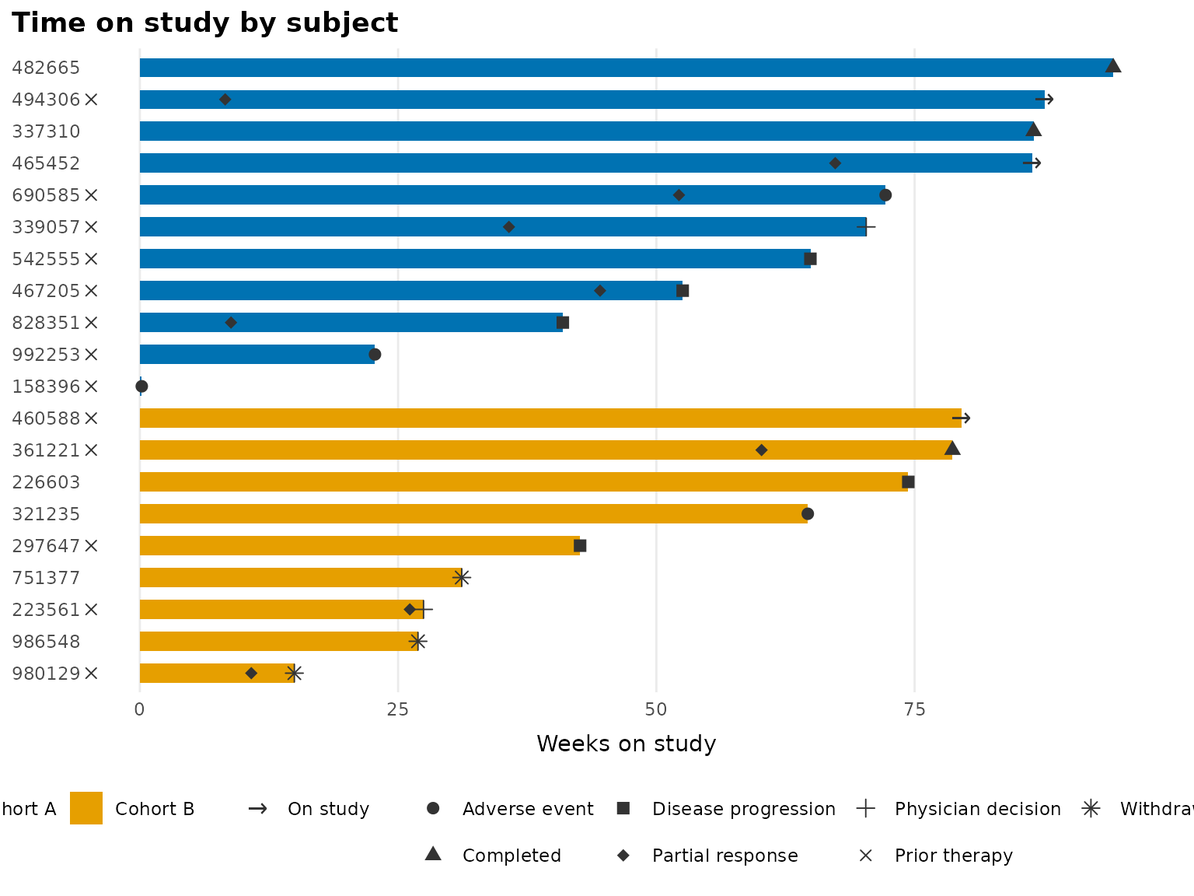
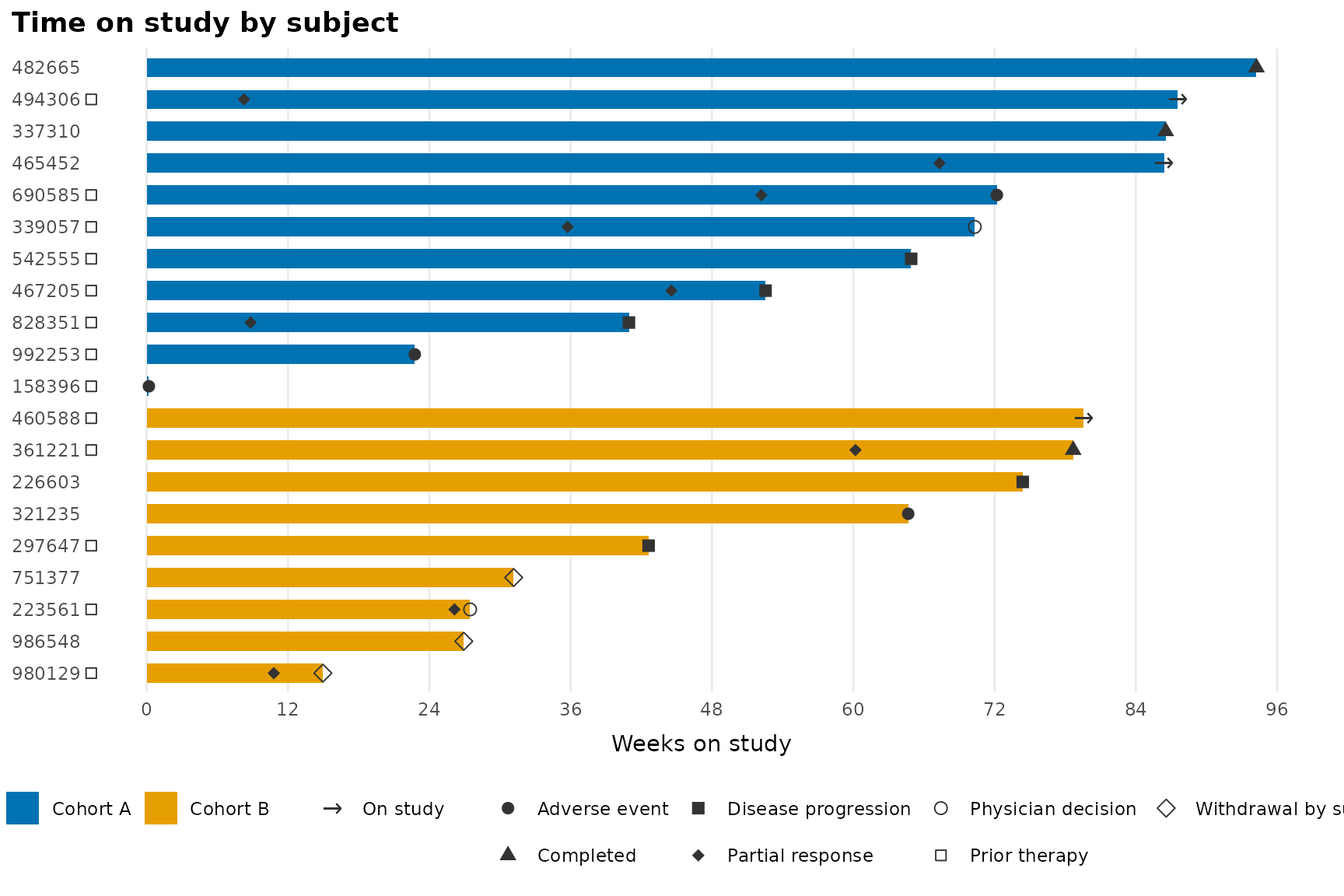
Deploying to gh-pages from @ tgerke/ggswimlane@ab0d44b643e46b7d5c5ca923e06b29bbf7d964c7 🚀

diff --git a/articles/gallery.html b/articles/gallery.html
@@ -59,7 +59,7 @@
       <h1>Swimlane gallery</h1>
             
       
-      <small class="dont-index">Source: <a href="https://github.com/tgerke/ggswimlane/blob/v0.1.0/vignettes/gallery.Rmd" class="external-link"><code>vignettes/gallery.Rmd</code></a></small>
+      <small class="dont-index">Source: <a href="https://github.com/tgerke/ggswimlane/blob/main/vignettes/gallery.Rmd" class="external-link"><code>vignettes/gallery.Rmd</code></a></small>
       <div class="d-none name"><code>gallery.Rmd</code></div>
     </div>
 
@@ -103,12 +103,15 @@ simulated disposition table for 20 trial participants.</p>
 <p><code><a href="../reference/geom_swimlane.html">geom_swimlane()</a></code> draws one bar per subject.
 <code><a href="../reference/order_swimlane.html">order_swimlane()</a></code> relevels the subject column first so lanes
 run shortest to longest, and <code><a href="../reference/theme_swimlane.html">theme_swimlane()</a></code> supplies the
-finished look:</p>
+finished look. Time axes read best with breaks at protocol-meaningful
+intervals, so every example here sets 12-week breaks rather than
+accepting the ggplot2 defaults:</p>
 <div class="sourceCode" id="cb3"><pre class="downlit sourceCode r">
 <code class="sourceCode R"><span><span class="va">patient_disposition</span> <span class="op">|&gt;</span></span>
 <span>  <span class="fu"><a href="../reference/order_swimlane.html">order_swimlane</a></span><span class="op">(</span><span class="va">subject</span>, <span class="va">weeks_on_study</span><span class="op">)</span> <span class="op">|&gt;</span></span>
 <span>  <span class="fu"><a href="https://ggplot2.tidyverse.org/reference/ggplot.html" class="external-link">ggplot</a></span><span class="op">(</span><span class="op">)</span> <span class="op">+</span></span>
 <span>  <span class="fu"><a href="../reference/geom_swimlane.html">geom_swimlane</a></span><span class="op">(</span><span class="va">subject</span>, <span class="va">weeks_on_study</span><span class="op">)</span> <span class="op">+</span></span>
+<span>  <span class="fu"><a href="https://ggplot2.tidyverse.org/reference/scale_continuous.html" class="external-link">scale_x_continuous</a></span><span class="op">(</span>breaks <span class="op">=</span> <span class="fu">scales</span><span class="fu">::</span><span class="fu"><a href="https://scales.r-lib.org/reference/breaks_width.html" class="external-link">breaks_width</a></span><span class="op">(</span><span class="fl">12</span><span class="op">)</span><span class="op">)</span> <span class="op">+</span></span>
 <span>  <span class="fu"><a href="https://ggplot2.tidyverse.org/reference/labs.html" class="external-link">labs</a></span><span class="op">(</span>x <span class="op">=</span> <span class="st">"Weeks on study"</span><span class="op">)</span> <span class="op">+</span></span>
 <span>  <span class="fu"><a href="../reference/theme_swimlane.html">theme_swimlane</a></span><span class="op">(</span><span class="op">)</span></span></code></pre></div>
 <p><img src="gallery_files/figure-html/basic-1.png" class="r-plt" alt="Swimlane plot of 20 subjects with blue bars ordered shortest to longest from the bottom" width="100%"></p>
@@ -119,6 +122,7 @@ to <code><a href="../reference/order_swimlane.html">order_swimlane()</a></code> 
 <span>  <span class="fu"><a href="../reference/order_swimlane.html">order_swimlane</a></span><span class="op">(</span><span class="va">subject</span>, <span class="va">weeks_on_study</span>, <span class="va">cohort</span><span class="op">)</span> <span class="op">|&gt;</span></span>
 <span>  <span class="fu"><a href="https://ggplot2.tidyverse.org/reference/ggplot.html" class="external-link">ggplot</a></span><span class="op">(</span><span class="op">)</span> <span class="op">+</span></span>
 <span>  <span class="fu"><a href="../reference/geom_swimlane.html">geom_swimlane</a></span><span class="op">(</span><span class="va">subject</span>, <span class="va">weeks_on_study</span>, <span class="va">cohort</span><span class="op">)</span> <span class="op">+</span></span>
+<span>  <span class="fu"><a href="https://ggplot2.tidyverse.org/reference/scale_continuous.html" class="external-link">scale_x_continuous</a></span><span class="op">(</span>breaks <span class="op">=</span> <span class="fu">scales</span><span class="fu">::</span><span class="fu"><a href="https://scales.r-lib.org/reference/breaks_width.html" class="external-link">breaks_width</a></span><span class="op">(</span><span class="fl">12</span><span class="op">)</span><span class="op">)</span> <span class="op">+</span></span>
 <span>  <span class="fu"><a href="https://ggplot2.tidyverse.org/reference/labs.html" class="external-link">labs</a></span><span class="op">(</span>x <span class="op">=</span> <span class="st">"Weeks on study"</span><span class="op">)</span> <span class="op">+</span></span>
 <span>  <span class="fu"><a href="../reference/theme_swimlane.html">theme_swimlane</a></span><span class="op">(</span><span class="op">)</span></span></code></pre></div>
 <p><img src="gallery_files/figure-html/cohorts-1.png" class="r-plt" alt="Swimlane plot with lanes grouped and colored by cohort, blue for Cohort A and orange for Cohort B" width="100%"></p>
@@ -154,6 +158,7 @@ the left margin.</li>
 <span>    marker_label <span class="op">=</span> <span class="st">"Partial response"</span></span>
 <span>  <span class="op">)</span> <span class="op">+</span></span>
 <span>  <span class="fu"><a href="../reference/geom_swimlane_rug.html">geom_swimlane_rug</a></span><span class="op">(</span><span class="va">subject</span>, <span class="va">prior_drug</span><span class="op">)</span> <span class="op">+</span></span>
+<span>  <span class="fu"><a href="https://ggplot2.tidyverse.org/reference/scale_continuous.html" class="external-link">scale_x_continuous</a></span><span class="op">(</span>breaks <span class="op">=</span> <span class="fu">scales</span><span class="fu">::</span><span class="fu"><a href="https://scales.r-lib.org/reference/breaks_width.html" class="external-link">breaks_width</a></span><span class="op">(</span><span class="fl">12</span><span class="op">)</span><span class="op">)</span> <span class="op">+</span></span>
 <span>  <span class="fu"><a href="https://ggplot2.tidyverse.org/reference/labs.html" class="external-link">labs</a></span><span class="op">(</span>title <span class="op">=</span> <span class="st">"Time on study by subject"</span>, x <span class="op">=</span> <span class="st">"Weeks on study"</span><span class="op">)</span> <span class="op">+</span></span>
 <span>  <span class="fu"><a href="../reference/theme_swimlane.html">theme_swimlane</a></span><span class="op">(</span><span class="op">)</span></span></code></pre></div>
 <p><img src="gallery_files/figure-html/annotated-1.png" class="r-plt" alt="Swimlane plot colored by cohort with shaped points marking each subject's end-of-study status, partial responses, prior therapy flags in the left margin, and arrows for subjects still on study" width="100%"></p>
@@ -164,9 +169,24 @@ the left margin.</li>
 <p>With one row per subject and phase, bar segments stack in
 factor-level order. Here each lane splits into treatment and follow-up
 phases; note that <code><a href="../reference/order_swimlane.html">order_swimlane()</a></code> runs before pivoting so
-lanes stay ordered by total duration:</p>
+lanes stay ordered by total duration.</p>
+<p>Shapes assign in factor-level order, so a plot with different status
+levels would reshuffle them: this plot has no partial responses, and
+“Physician decision” would silently inherit the diamond that meant
+“Partial response” above. When a document has several swimlanes, pin
+each status to its shape with a named <code>values</code> vector:</p>
 <div class="sourceCode" id="cb6"><pre class="downlit sourceCode r">
-<code class="sourceCode R"><span><span class="va">patient_disposition</span> <span class="op">|&gt;</span></span>
+<code class="sourceCode R"><span><span class="va">status_shapes</span> <span class="op">&lt;-</span> <span class="fu"><a href="https://rdrr.io/r/base/c.html" class="external-link">c</a></span><span class="op">(</span></span>
+<span>  <span class="st">"Adverse event"</span> <span class="op">=</span> <span class="fl">16</span>,</span>
+<span>  <span class="st">"Completed"</span> <span class="op">=</span> <span class="fl">17</span>,</span>
+<span>  <span class="st">"Disease progression"</span> <span class="op">=</span> <span class="fl">15</span>,</span>
+<span>  <span class="st">"Partial response"</span> <span class="op">=</span> <span class="fl">18</span>,</span>
+<span>  <span class="st">"Physician decision"</span> <span class="op">=</span> <span class="fl">1</span>,</span>
+<span>  <span class="st">"Prior therapy"</span> <span class="op">=</span> <span class="fl">0</span>,</span>
+<span>  <span class="st">"Withdrawal by subject"</span> <span class="op">=</span> <span class="fl">5</span></span>
+<span><span class="op">)</span></span>
+<span></span>
+<span><span class="va">patient_disposition</span> <span class="op">|&gt;</span></span>
 <span>  <span class="fu"><a href="../reference/order_swimlane.html">order_swimlane</a></span><span class="op">(</span><span class="va">subject</span>, <span class="va">weeks_on_study</span>, <span class="va">cohort</span><span class="op">)</span> <span class="op">|&gt;</span></span>
 <span>  <span class="fu"><a href="https://dplyr.tidyverse.org/reference/mutate.html" class="external-link">mutate</a></span><span class="op">(</span></span>
 <span>    Treatment <span class="op">=</span> <span class="va">weeks_on_treatment</span>,</span>
@@ -180,25 +200,34 @@ lanes stay ordered by total duration:</p>
 <span>  <span class="fu"><a href="https://ggplot2.tidyverse.org/reference/ggplot.html" class="external-link">ggplot</a></span><span class="op">(</span><span class="op">)</span> <span class="op">+</span></span>
 <span>  <span class="fu"><a href="../reference/geom_swimlane.html">geom_swimlane</a></span><span class="op">(</span><span class="va">subject</span>, <span class="va">weeks</span>, <span class="va">phase</span><span class="op">)</span> <span class="op">+</span></span>
 <span>  <span class="fu"><a href="../reference/geom_swimlane_status.html">geom_swimlane_status</a></span><span class="op">(</span><span class="va">subject</span>, <span class="va">weeks_on_study</span>, <span class="va">reason_off_study</span><span class="op">)</span> <span class="op">+</span></span>
+<span>  <span class="fu"><a href="../reference/scale_fill_swimlane.html">scale_shape_swimlane</a></span><span class="op">(</span></span>
+<span>    values <span class="op">=</span> <span class="va">status_shapes</span>,</span>
+<span>    guide <span class="op">=</span> <span class="fu"><a href="https://ggplot2.tidyverse.org/reference/guide_legend.html" class="external-link">guide_legend</a></span><span class="op">(</span>order <span class="op">=</span> <span class="fl">3</span>, nrow <span class="op">=</span> <span class="fl">2</span><span class="op">)</span></span>
+<span>  <span class="op">)</span> <span class="op">+</span></span>
+<span>  <span class="fu"><a href="https://ggplot2.tidyverse.org/reference/scale_continuous.html" class="external-link">scale_x_continuous</a></span><span class="op">(</span>breaks <span class="op">=</span> <span class="fu">scales</span><span class="fu">::</span><span class="fu"><a href="https://scales.r-lib.org/reference/breaks_width.html" class="external-link">breaks_width</a></span><span class="op">(</span><span class="fl">12</span><span class="op">)</span><span class="op">)</span> <span class="op">+</span></span>
 <span>  <span class="fu"><a href="https://ggplot2.tidyverse.org/reference/labs.html" class="external-link">labs</a></span><span class="op">(</span>title <span class="op">=</span> <span class="st">"Treatment and follow-up phases"</span>, x <span class="op">=</span> <span class="st">"Weeks on study"</span><span class="op">)</span> <span class="op">+</span></span>
 <span>  <span class="fu"><a href="../reference/theme_swimlane.html">theme_swimlane</a></span><span class="op">(</span><span class="op">)</span></span></code></pre></div>
-<p><img src="gallery_files/figure-html/stacked-1.png" class="r-plt" alt="Swimlane plot where each bar is split into a blue treatment segment followed by an orange follow-up segment" width="100%"></p>
+<p><img src="gallery_files/figure-html/stacked-1.png" class="r-plt" alt="Swimlane plot where each bar is split into a blue treatment segment followed by an orange follow-up segment, with the same status shapes as the previous figure" width="100%"></p>
 </div>
 <div class="section level2">
 <h2 id="text-annotations">Text annotations<a class="anchor" aria-label="anchor" href="#text-annotations"></a>
 </h2>
 <p>Prefer text over symbols? <code><a href="../reference/geom_swimlane_label.html">geom_swimlane_label()</a></code> writes
-each status past the end of its bar. Widen the right margin to make
-room:</p>
+each status past the end of its bar. Subjects with <code>NA</code> are
+skipped, which would leave ongoing subjects indistinguishable from
+missing data, so recode them to a label first. Widen the right margin to
+make room:</p>
 <div class="sourceCode" id="cb7"><pre class="downlit sourceCode r">
 <code class="sourceCode R"><span><span class="va">patient_disposition</span> <span class="op">|&gt;</span></span>
+<span>  <span class="fu"><a href="https://dplyr.tidyverse.org/reference/mutate.html" class="external-link">mutate</a></span><span class="op">(</span>reason_off_study <span class="op">=</span> <span class="fu"><a href="https://dplyr.tidyverse.org/reference/coalesce.html" class="external-link">coalesce</a></span><span class="op">(</span><span class="va">reason_off_study</span>, <span class="st">"On study"</span><span class="op">)</span><span class="op">)</span> <span class="op">|&gt;</span></span>
 <span>  <span class="fu"><a href="../reference/order_swimlane.html">order_swimlane</a></span><span class="op">(</span><span class="va">subject</span>, <span class="va">weeks_on_study</span>, <span class="va">cohort</span><span class="op">)</span> <span class="op">|&gt;</span></span>
 <span>  <span class="fu"><a href="https://ggplot2.tidyverse.org/reference/ggplot.html" class="external-link">ggplot</a></span><span class="op">(</span><span class="op">)</span> <span class="op">+</span></span>
 <span>  <span class="fu"><a href="../reference/geom_swimlane.html">geom_swimlane</a></span><span class="op">(</span><span class="va">subject</span>, <span class="va">weeks_on_study</span>, <span class="va">cohort</span><span class="op">)</span> <span class="op">+</span></span>
 <span>  <span class="fu"><a href="../reference/geom_swimlane_label.html">geom_swimlane_label</a></span><span class="op">(</span><span class="va">subject</span>, <span class="va">weeks_on_study</span>, <span class="va">reason_off_study</span><span class="op">)</span> <span class="op">+</span></span>
+<span>  <span class="fu"><a href="https://ggplot2.tidyverse.org/reference/scale_continuous.html" class="external-link">scale_x_continuous</a></span><span class="op">(</span>breaks <span class="op">=</span> <span class="fu">scales</span><span class="fu">::</span><span class="fu"><a href="https://scales.r-lib.org/reference/breaks_width.html" class="external-link">breaks_width</a></span><span class="op">(</span><span class="fl">12</span><span class="op">)</span><span class="op">)</span> <span class="op">+</span></span>
 <span>  <span class="fu"><a href="https://ggplot2.tidyverse.org/reference/labs.html" class="external-link">labs</a></span><span class="op">(</span>x <span class="op">=</span> <span class="st">"Weeks on study"</span><span class="op">)</span> <span class="op">+</span></span>
 <span>  <span class="fu"><a href="../reference/theme_swimlane.html">theme_swimlane</a></span><span class="op">(</span>extra_margin_r <span class="op">=</span> <span class="fl">60</span><span class="op">)</span></span></code></pre></div>
-<p><img src="gallery_files/figure-html/labels-1.png" class="r-plt" alt="Swimlane plot with each subject's reason off study written as text just past the end of its bar" width="100%"></p>
+<p><img src="gallery_files/figure-html/labels-1.png" class="r-plt" alt="Swimlane plot with each subject's status, including On study, written as text just past the end of its bar" width="100%"></p>
 </div>
 <div class="section level2">
 <h2 id="customization">Customization<a class="anchor" aria-label="anchor" href="#customization"></a>
@@ -212,6 +241,7 @@ through <code><a href="../reference/theme_swimlane.html">theme_swimlane()</a></c
 <span>  <span class="fu"><a href="https://ggplot2.tidyverse.org/reference/ggplot.html" class="external-link">ggplot</a></span><span class="op">(</span><span class="op">)</span> <span class="op">+</span></span>
 <span>  <span class="fu"><a href="../reference/geom_swimlane.html">geom_swimlane</a></span><span class="op">(</span><span class="va">subject</span>, <span class="va">weeks_on_study</span>, <span class="va">cohort</span><span class="op">)</span> <span class="op">+</span></span>
 <span>  <span class="fu"><a href="https://ggplot2.tidyverse.org/reference/scale_brewer.html" class="external-link">scale_fill_brewer</a></span><span class="op">(</span>palette <span class="op">=</span> <span class="st">"Dark2"</span><span class="op">)</span> <span class="op">+</span></span>
+<span>  <span class="fu"><a href="https://ggplot2.tidyverse.org/reference/scale_continuous.html" class="external-link">scale_x_continuous</a></span><span class="op">(</span>breaks <span class="op">=</span> <span class="fu">scales</span><span class="fu">::</span><span class="fu"><a href="https://scales.r-lib.org/reference/breaks_width.html" class="external-link">breaks_width</a></span><span class="op">(</span><span class="fl">12</span><span class="op">)</span><span class="op">)</span> <span class="op">+</span></span>
 <span>  <span class="fu"><a href="https://ggplot2.tidyverse.org/reference/labs.html" class="external-link">labs</a></span><span class="op">(</span>x <span class="op">=</span> <span class="st">"Weeks on study"</span><span class="op">)</span> <span class="op">+</span></span>
 <span>  <span class="fu"><a href="../reference/theme_swimlane.html">theme_swimlane</a></span><span class="op">(</span></span>
 <span>    base_size <span class="op">=</span> <span class="fl">12</span>,</span>

diff --git a/reference/scale_fill_swimlane.html b/reference/scale_fill_swimlane.html
@@ -1,11 +1,11 @@
 <!DOCTYPE html>
 <!-- Generated by pkgdown: do not edit by hand --><html lang="en"><head><meta http-equiv="Content-Type" content="text/html; charset=UTF-8"><meta charset="utf-8"><meta http-equiv="X-UA-Compatible" content="IE=edge"><meta name="viewport" content="width=device-width, initial-scale=1, shrink-to-fit=no"><title>Discrete scales for swimlane plots — scale_fill_swimlane • ggswimlane</title><script src="../deps/jquery-3.6.0/jquery-3.6.0.min.js"></script><meta name="viewport" content="width=device-width, initial-scale=1, shrink-to-fit=no"><link href="../deps/bootstrap-5.3.8/bootstrap.min.css" rel="stylesheet"><script src="../deps/bootstrap-5.3.8/bootstrap.bundle.min.js"></script><link href="../deps/font-awesome-6.5.2/css/all.min.css" rel="stylesheet"><link href="../deps/font-awesome-6.5.2/css/v4-shims.min.css" rel="stylesheet"><script src="../deps/headroom-0.11.0/headroom.min.js"></script><script src="../deps/headroom-0.11.0/jQuery.headroom.min.js"></script><script src="../deps/bootstrap-toc-1.0.1/bootstrap-toc.min.js"></script><script src="../deps/clipboard.js-2.0.11/clipboard.min.js"></script><script src="../deps/search-1.0.0/autocomplete.jquery.min.js"></script><script src="../deps/search-1.0.0/fuse.min.js"></script><script src="../deps/search-1.0.0/mark.min.js"></script><!-- pkgdown --><script src="../pkgdown.js"></script><meta property="og:title" content="Discrete scales for swimlane plots — scale_fill_swimlane"><meta name="description" content="Color and fill scales built on a reordered Okabe-Ito palette (colorblind-safe, 8 colors), and
-a shape scale of legible solid-first symbols (7 shapes). These are applied
-automatically by geom_swimlane(); use them directly to style additional
-layers, or replace them with any other discrete scale."><meta property="og:description" content="Color and fill scales built on a reordered Okabe-Ito palette (colorblind-safe, 8 colors), and
-a shape scale of legible solid-first symbols (7 shapes). These are applied
-automatically by geom_swimlane(); use them directly to style additional
-layers, or replace them with any other discrete scale."></head><body>
+a shape scale of legible closed symbols (8 shapes, solid first). These are
+applied automatically by geom_swimlane(); use them directly to style
+additional layers, or replace them with any other discrete scale."><meta property="og:description" content="Color and fill scales built on a reordered Okabe-Ito palette (colorblind-safe, 8 colors), and
+a shape scale of legible closed symbols (8 shapes, solid first). These are
+applied automatically by geom_swimlane(); use them directly to style
+additional layers, or replace them with any other discrete scale."></head><body>
     <a href="#main" class="visually-hidden-focusable">Skip to contents</a>
 
 
@@ -39,15 +39,15 @@ layers, or replace them with any other discrete scale."></head><body>
   <main id="main" class="col-md-9"><div class="page-header">
 
       <h1>Discrete scales for swimlane plots</h1>
-      <small class="dont-index">Source: <a href="https://github.com/tgerke/ggswimlane/blob/v0.1.0/R/scales.R" class="external-link"><code>R/scales.R</code></a></small>
+      <small class="dont-index">Source: <a href="https://github.com/tgerke/ggswimlane/blob/main/R/scales.R" class="external-link"><code>R/scales.R</code></a></small>
       <div class="d-none name"><code>scale_fill_swimlane.Rd</code></div>
     </div>
 
     <div class="ref-description section level2">
     <p>Color and fill scales built on a reordered <a href="https://jfly.uni-koeln.de/color/" class="external-link">Okabe-Ito palette</a> (colorblind-safe, 8 colors), and
-a shape scale of legible solid-first symbols (7 shapes). These are applied
-automatically by <code><a href="geom_swimlane.html">geom_swimlane()</a></code>; use them directly to style additional
-layers, or replace them with any other discrete scale.</p>
+a shape scale of legible closed symbols (8 shapes, solid first). These are
+applied automatically by <code><a href="geom_swimlane.html">geom_swimlane()</a></code>; use them directly to style
+additional layers, or replace them with any other discrete scale.</p>
     </div>
 
     <div class="section level2">
@@ -58,7 +58,7 @@ layers, or replace them with any other discrete scale.</p>
 <span></span>
 <span><span class="fu">scale_color_swimlane</span><span class="op">(</span><span class="va">...</span><span class="op">)</span></span>
 <span></span>
-<span><span class="fu">scale_shape_swimlane</span><span class="op">(</span><span class="va">...</span><span class="op">)</span></span></code></pre></div>
+<span><span class="fu">scale_shape_swimlane</span><span class="op">(</span><span class="va">...</span>, values <span class="op">=</span> <span class="cn">NULL</span><span class="op">)</span></span></code></pre></div>
     </div>
 
     <div class="section level2">
@@ -68,10 +68,23 @@ layers, or replace them with any other discrete scale.</p>
 <dl><dt id="arg--">...<a class="anchor" aria-label="anchor" href="#arg--"></a></dt>
 <dd><p>Arguments passed to <code><a href="https://ggplot2.tidyverse.org/reference/discrete_scale.html" class="external-link">ggplot2::discrete_scale()</a></code>.</p></dd>
 
+
+<dt id="arg-values">values<a class="anchor" aria-label="anchor" href="#arg-values"></a></dt>
+<dd><p>Optional vector of shapes for <code>scale_shape_swimlane()</code>,
+named by level to pin statuses to shapes (as in
+<code><a href="https://ggplot2.tidyverse.org/reference/scale_manual.html" class="external-link">ggplot2::scale_shape_manual()</a></code>). Defaults to the built-in palette.</p></dd>
+
 </dl></div>
     <div class="section level2">
     <h2 id="value">Value<a class="anchor" aria-label="anchor" href="#value"></a></h2>
     <p>A ggplot2 scale object.</p>
+    </div>
+    <div class="section level2">
+    <h2 id="details">Details<a class="anchor" aria-label="anchor" href="#details"></a></h2>
+    <p>By default shapes are assigned in factor-level order, so two plots with
+different status levels assign different shapes to the same status. Pass a
+named <code>values</code> vector to <code>scale_shape_swimlane()</code> to pin each status to a
+shape across plots.</p>
     </div>
 
     <div class="section level2">

diff --git a/news/index.html b/news/index.html
@@ -33,7 +33,7 @@
   <main id="main" class="col-md-9"><div class="page-header">
 
       <h1>Changelog</h1>
-      <small>Source: <a href="https://github.com/tgerke/ggswimlane/blob/v0.1.0/NEWS.md" class="external-link"><code>NEWS.md</code></a></small>
+      <small>Source: <a href="https://github.com/tgerke/ggswimlane/blob/main/NEWS.md" class="external-link"><code>NEWS.md</code></a></small>
     </div>
 
     <div class="section level2">
@@ -50,6 +50,9 @@
 <li>
 <code><a href="../reference/geom_swimlane.html">geom_swimlane()</a></code> gains stacked-segment support: pass long data with a <code>fill_var</code> such as treatment phase and segments stack in factor-level order (<a href="https://github.com/tgerke/ggswimlane/issues/4" class="external-link">#4</a>). The new <code>weeks_on_treatment</code> column in <code>patient_disposition</code> and the gallery vignette demonstrate this.</li>
 <li>Plots now look polished without additional scales: <code><a href="../reference/geom_swimlane.html">geom_swimlane()</a></code> applies built-in colorblind-safe fill and shape scales (Okabe-Ito colors; <code><a href="../reference/scale_fill_swimlane.html">scale_fill_swimlane()</a></code>, <code><a href="../reference/scale_fill_swimlane.html">scale_colour_swimlane()</a></code>, <code><a href="../reference/scale_fill_swimlane.html">scale_shape_swimlane()</a></code> are also exported), and <code><a href="../reference/theme_swimlane.html">theme_swimlane()</a></code> was redesigned with a bottom legend default.</li>
+<li>The default shape palette uses closed symbols only (solid first, then open outlines). The line-only glyphs (<code>+</code>, <code>x</code>, <code>*</code>) are gone: drawn at the end of a bar, their strokes read as arrow shafts or error bars.</li>
+<li>
+<code><a href="../reference/scale_fill_swimlane.html">scale_shape_swimlane()</a></code> gains a <code>values</code> argument. Shapes otherwise assign in factor-level order, so pass a named vector to pin each status to the same shape across plots.</li>
 <li>All user-facing functions validate their column arguments and error informatively.</li>
 </ul></div>
 <div class="section level3">

diff --git a/index.html b/index.html
@@ -88,6 +88,7 @@
 <span>    marker_label <span class="op">=</span> <span class="st">"Partial response"</span></span>
 <span>  <span class="op">)</span> <span class="op">+</span></span>
 <span>  <span class="fu"><a href="reference/geom_swimlane_rug.html">geom_swimlane_rug</a></span><span class="op">(</span><span class="va">subject</span>, <span class="va">prior_drug</span><span class="op">)</span> <span class="op">+</span></span>
+<span>  <span class="fu"><a href="https://ggplot2.tidyverse.org/reference/scale_continuous.html" class="external-link">scale_x_continuous</a></span><span class="op">(</span>breaks <span class="op">=</span> <span class="fu">scales</span><span class="fu">::</span><span class="fu"><a href="https://scales.r-lib.org/reference/breaks_width.html" class="external-link">breaks_width</a></span><span class="op">(</span><span class="fl">12</span><span class="op">)</span><span class="op">)</span> <span class="op">+</span></span>
 <span>  <span class="fu"><a href="https://ggplot2.tidyverse.org/reference/labs.html" class="external-link">labs</a></span><span class="op">(</span>title <span class="op">=</span> <span class="st">"Time on study by subject"</span>, x <span class="op">=</span> <span class="st">"Weeks on study"</span><span class="op">)</span> <span class="op">+</span></span>
 <span>  <span class="fu"><a href="reference/theme_swimlane.html">theme_swimlane</a></span><span class="op">(</span><span class="op">)</span></span></code></pre></div>
 <p><img src="reference/figures/README-example-1.png" alt="Swimlane plot of 20 subjects colored by cohort, with shaped points marking end-of-study status, partial responses, prior therapy flags in the left margin, and arrows for subjects still on study" width="100%"></p>

diff --git a/reference/geom_swimlane_rug.html b/reference/geom_swimlane_rug.html
@@ -43,7 +43,7 @@ dplyr::if_else(prior_drug == "Yes", "Prior therapy", NA).'></head><body>
   <main id="main" class="col-md-9"><div class="page-header">
 
       <h1>Mark baseline characteristics in the left margin of a swimlane</h1>
-      <small class="dont-index">Source: <a href="https://github.com/tgerke/ggswimlane/blob/v0.1.0/R/geom_swimlane_rug.R" class="external-link"><code>R/geom_swimlane_rug.R</code></a></small>
+      <small class="dont-index">Source: <a href="https://github.com/tgerke/ggswimlane/blob/main/R/geom_swimlane_rug.R" class="external-link"><code>R/geom_swimlane_rug.R</code></a></small>
       <div class="d-none name"><code>geom_swimlane_rug.Rd</code></div>
     </div>
 

diff --git a/reference/geom_swimlane_label.html b/reference/geom_swimlane_label.html
@@ -35,7 +35,7 @@ past the end of its bar. Subjects with NA in label_var are skipped."></head><bod
   <main id="main" class="col-md-9"><div class="page-header">
 
       <h1>Add text to the end of each swimlane bar</h1>
-      <small class="dont-index">Source: <a href="https://github.com/tgerke/ggswimlane/blob/v0.1.0/R/geom_swimlane_label.R" class="external-link"><code>R/geom_swimlane_label.R</code></a></small>
+      <small class="dont-index">Source: <a href="https://github.com/tgerke/ggswimlane/blob/main/R/geom_swimlane_label.R" class="external-link"><code>R/geom_swimlane_label.R</code></a></small>
       <div class="d-none name"><code>geom_swimlane_label.Rd</code></div>
     </div>
 

diff --git a/reference/geom_swimlane_marker.html b/reference/geom_swimlane_marker.html
@@ -39,7 +39,7 @@ marker_var to map several event types to different shapes."></head><body>
   <main id="main" class="col-md-9"><div class="page-header">
 
       <h1>Mark on-lane events with shaped points</h1>
-      <small class="dont-index">Source: <a href="https://github.com/tgerke/ggswimlane/blob/v0.1.0/R/geom_swimlane_marker.R" class="external-link"><code>R/geom_swimlane_marker.R</code></a></small>
+      <small class="dont-index">Source: <a href="https://github.com/tgerke/ggswimlane/blob/main/R/geom_swimlane_marker.R" class="external-link"><code>R/geom_swimlane_marker.R</code></a></small>
       <div class="d-none name"><code>geom_swimlane_marker.Rd</code></div>
     </div>
 

diff --git a/reference/order_swimlane.html b/reference/order_swimlane.html
@@ -39,7 +39,7 @@ geom_swimlane() so lanes appear shortest-to-longest from the bottom up."></head>
   <main id="main" class="col-md-9"><div class="page-header">
 
       <h1>Order a tibble for swimlane plotting</h1>
-      <small class="dont-index">Source: <a href="https://github.com/tgerke/ggswimlane/blob/v0.1.0/R/order_swimlane.R" class="external-link"><code>R/order_swimlane.R</code></a></small>
+      <small class="dont-index">Source: <a href="https://github.com/tgerke/ggswimlane/blob/main/R/order_swimlane.R" class="external-link"><code>R/order_swimlane.R</code></a></small>
       <div class="d-none name"><code>order_swimlane.Rd</code></div>
     </div>
 

diff --git a/reference/theme_swimlane.html b/reference/theme_swimlane.html
@@ -39,7 +39,7 @@ typically self-explanatory; restore them via ... if needed."></head><body>
   <main id="main" class="col-md-9"><div class="page-header">
 
       <h1>A ggplot theme for swimlane plots</h1>
-      <small class="dont-index">Source: <a href="https://github.com/tgerke/ggswimlane/blob/v0.1.0/R/theme_swimlane.R" class="external-link"><code>R/theme_swimlane.R</code></a></small>
+      <small class="dont-index">Source: <a href="https://github.com/tgerke/ggswimlane/blob/main/R/theme_swimlane.R" class="external-link"><code>R/theme_swimlane.R</code></a></small>
       <div class="d-none name"><code>theme_swimlane.Rd</code></div>
     </div>
 

diff --git a/reference/geom_swimlane_status.html b/reference/geom_swimlane_status.html
@@ -41,7 +41,7 @@ entry."></head><body>
   <main id="main" class="col-md-9"><div class="page-header">
 
       <h1>Mark end-of-lane status with shaped points</h1>
-      <small class="dont-index">Source: <a href="https://github.com/tgerke/ggswimlane/blob/v0.1.0/R/geom_swimlane_status.R" class="external-link"><code>R/geom_swimlane_status.R</code></a></small>
+      <small class="dont-index">Source: <a href="https://github.com/tgerke/ggswimlane/blob/main/R/geom_swimlane_status.R" class="external-link"><code>R/geom_swimlane_status.R</code></a></small>
       <div class="d-none name"><code>geom_swimlane_status.Rd</code></div>
     </div>
 

diff --git a/reference/geom_swimlane.html b/reference/geom_swimlane.html
@@ -39,7 +39,7 @@ rows per subject for stacked segments (e.g. treatment phases)."></head><body>
   <main id="main" class="col-md-9"><div class="page-header">
 
       <h1>Swimlane bars</h1>
-      <small class="dont-index">Source: <a href="https://github.com/tgerke/ggswimlane/blob/v0.1.0/R/geom_swimlane.R" class="external-link"><code>R/geom_swimlane.R</code></a></small>
+      <small class="dont-index">Source: <a href="https://github.com/tgerke/ggswimlane/blob/main/R/geom_swimlane.R" class="external-link"><code>R/geom_swimlane.R</code></a></small>
       <div class="d-none name"><code>geom_swimlane.Rd</code></div>
     </div>
 

diff --git a/reference/patient_disposition.html b/reference/patient_disposition.html
@@ -35,7 +35,7 @@ patient characteristics for 20 simulated trial participants."></head><body>
   <main id="main" class="col-md-9"><div class="page-header">
 
       <h1>A simulated patient disposition table</h1>
-      <small class="dont-index">Source: <a href="https://github.com/tgerke/ggswimlane/blob/v0.1.0/R/data.R" class="external-link"><code>R/data.R</code></a></small>
+      <small class="dont-index">Source: <a href="https://github.com/tgerke/ggswimlane/blob/main/R/data.R" class="external-link"><code>R/data.R</code></a></small>
       <div class="d-none name"><code>patient_disposition.Rd</code></div>
     </div>
 
